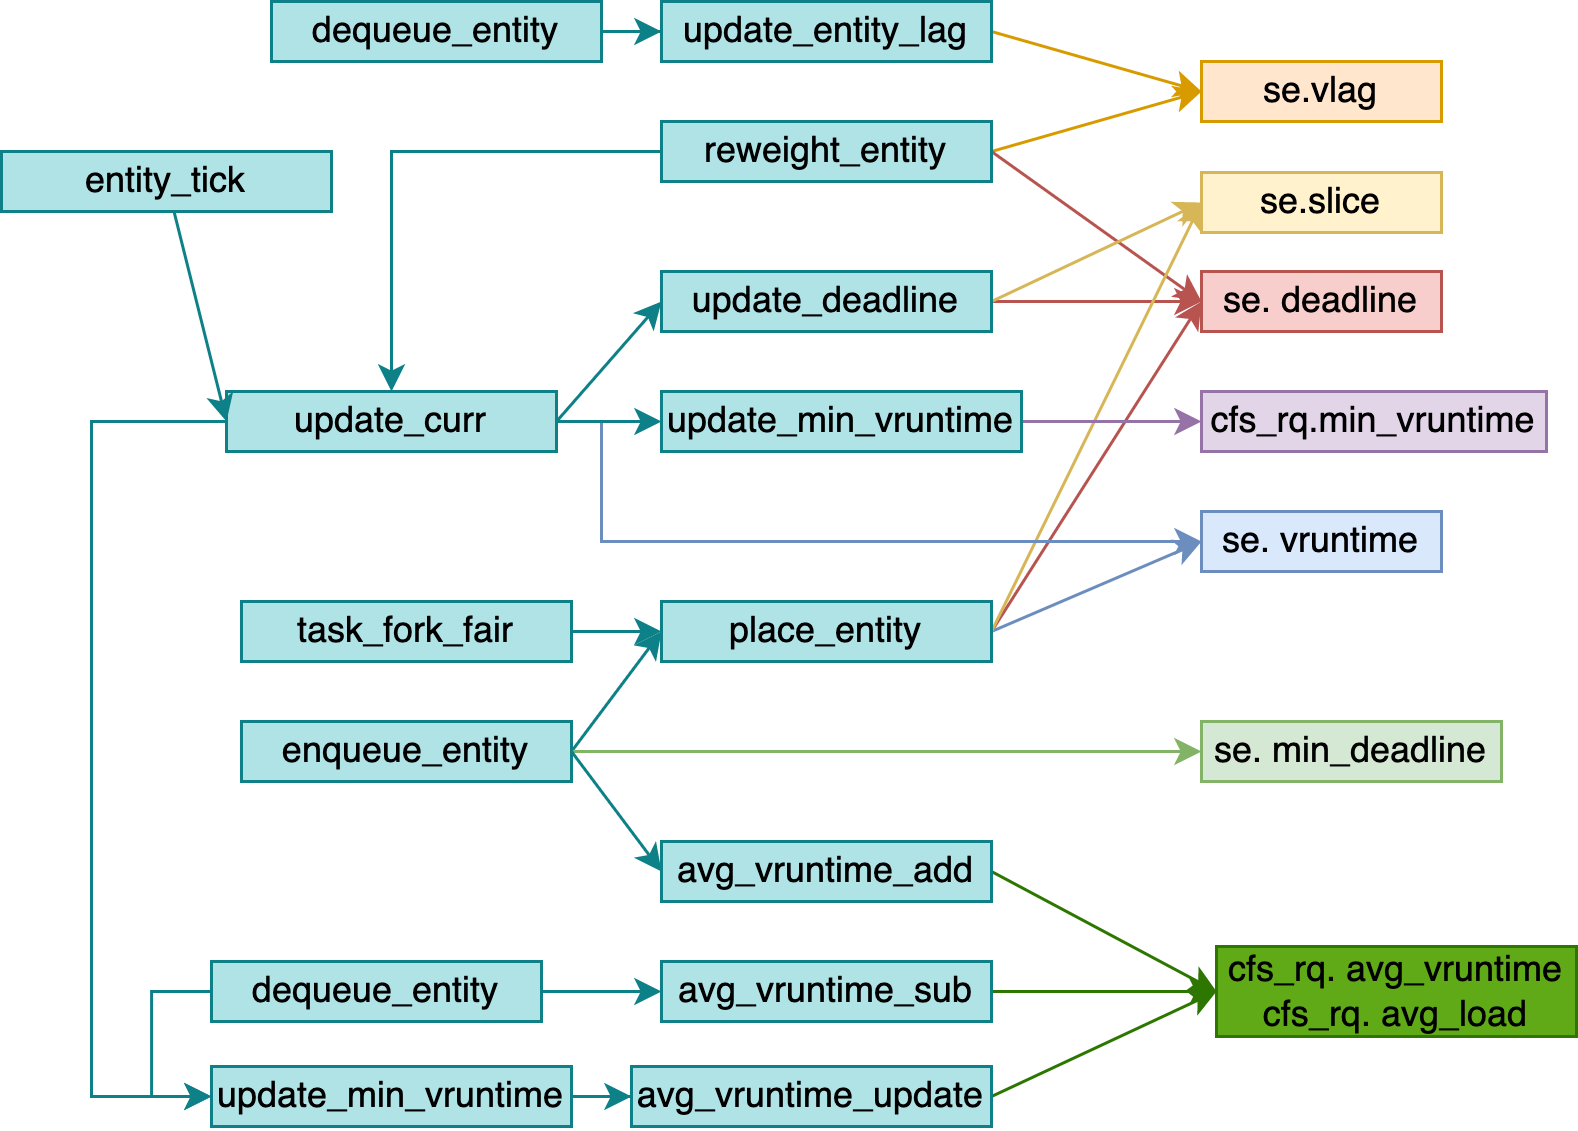
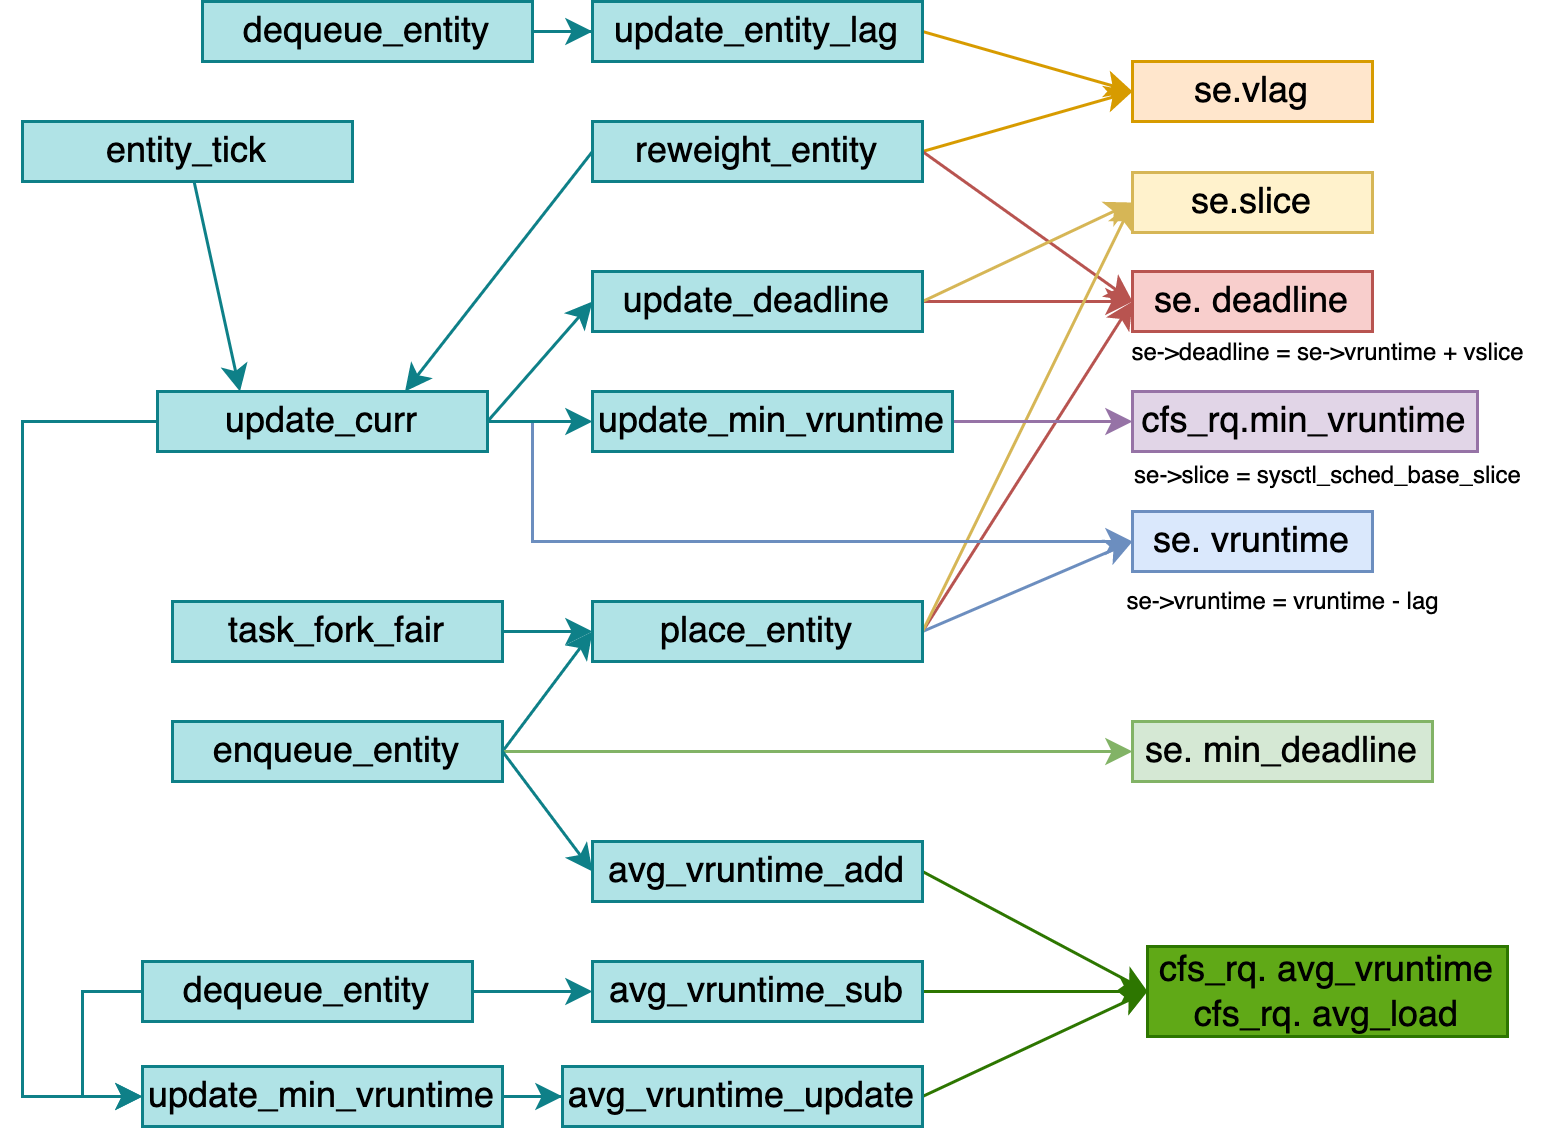
EEVDF

diff --git a/Linux/linux-kernel-proc.md b/Linux/linux-kernel-proc.md
@@ -811,6 +811,12 @@ export LD_LIBRARY_PATH=
     * [LWN Index - CFS scheduler](https://lwn.net/Kernel/Index/#Scheduler-Completely_fair_scheduler)
         * [An EEVDF CPU scheduler for Linux](https://lwn.net/Articles/925371/)
             * [[PATCH 00/15] sched: EEVDF and latency-nice and/or slice-attr](https://lore.kernel.org/all/20230531115839.089944915@infradead.org/#t)
+            * [[PATCH 01/15] sched/fair: Add cfs_rq::avg_vruntime](https://github.com/torvalds/linux/commit/af4cf40470c22efa3987200fd19478199e08e103)
+            * [[PATCH 03/15] sched/fair: Add lag based placement](https://github.com/torvalds/linux/commit/86bfbb7ce4f67a88df2639198169b685668e7349)
+            * [[PATCH 04/15] rbtree: Add rb_add_augmented_cached() helper](https://github.com/torvalds/linux/commit/99d4d26551b56f4e523dd04e4970b94aa796a64e)
+            * [[PATCH 05/15] sched/fair: Implement an EEVDF like policy](https://github.com/torvalds/linux/commit/147f3efaa24182a21706bca15eab2f3f4630b5fe)
+            * [[PATCH 07/15] sched/smp: Use lag to simplify cross-runqueue placement](https://github.com/torvalds/linux/commit/e8f331bcc270354a803c2127c486190d33eac441)
+            * [[PATCH 08/15] sched: Commit to EEVDF](https://github.com/torvalds/linux/commit/5e963f2bd4654a202a8a05aa3a86cb0300b10e6c)
             * ![](../Images/Kernel/proc-sched-cfs-eevdf.png)
     * [LWN Index - Core scheduling](https://lwn.net/Kernel/Index/#Scheduler-Core_scheduling)
     * [LWN Index - Deadline scheduling](https://lwn.net/Kernel/Index/#Scheduler-Deadline_scheduling)
@@ -2638,7 +2644,28 @@ enqueue_task_fair(struct rq *rq, struct task_struct *p, int flags) {
             /* If we're the current task, we must renormalise before calling update_curr(). */
             if (curr) {
                 place_entity(cfs_rq, se, flags) {
-                    u64 vslice, vruntime = avg_vruntime(cfs_rq);
+                    u64 vslice;
+                    u64 vruntime = avg_vruntime(cfs_rq) {
+                        struct sched_entity *curr = cfs_rq->curr;
+                        s64 avg = cfs_rq->avg_vruntime;
+                        long load = cfs_rq->avg_load;
+
+                        if (curr && curr->on_rq) {
+                            unsigned long weight = scale_load_down(curr->load.weight);
+
+                            avg += entity_key(cfs_rq, curr) * weight;
+                            load += weight;
+                        }
+
+                        if (load) {
+                            if (avg < 0) { /* sign flips effective floor / ceil */
+                                avg -= (load - 1);
+                            }
+                            avg = div_s64(avg, load);
+                        }
+
+                        return cfs_rq->min_vruntime + avg;
+                    }
                     s64 lag = 0;
 
                     se->slice = sysctl_sched_base_slice;
@@ -2651,9 +2678,9 @@ enqueue_task_fair(struct rq *rq, struct task_struct *p, int flags) {
                         lag = se->vlag;
 
                         load = cfs_rq->avg_load;
-                        if (curr && curr->on_rq)
+                        if (curr && curr->on_rq) {
                             load += scale_load_down(curr->load.weight);
-
+                        }
                         lag *= load + scale_load_down(se->load.weight);
                         if (WARN_ON_ONCE(!load))
                             load = 1;
@@ -2713,7 +2740,13 @@ enqueue_task_fair(struct rq *rq, struct task_struct *p, int flags) {
             update_stats_enqueue_fair(cfs_rq, se, flags);
             if (!curr) {
                 __enqueue_entity(cfs_rq, se) {
-                    avg_vruntime_add(cfs_rq, se);
+                    avg_vruntime_add(cfs_rq, se) {
+                        unsigned long weight = scale_load_down(se->load.weight);
+                        s64 key = entity_key(cfs_rq, se);
+
+                        cfs_rq->avg_vruntime += key * weight;
+                        cfs_rq->avg_load += weight;
+                    }
                     se->min_deadline = se->deadline;
 
                     RB_DECLARE_CALLBACKS(static, min_deadline_cb, struct sched_entity,
@@ -2819,22 +2852,26 @@ dequeue_task_fair(struct rq *rq, struct task_struct *p, int flags) {
 
             update_curr(cfs_rq);
             update_load_avg(cfs_rq, se, action);
-            se_update_runnable(se);
 
             update_stats_dequeue_fair(cfs_rq, se, flags);
-
             clear_buddies(cfs_rq, se);
+
+            update_entity_lag(cfs_rq, se) {
+                s64 lag, limit;
+
+                lag = avg_vruntime(cfs_rq) - se->vruntime;
+                limit = calc_delta_fair(max_t(u64, 2*se->slice, TICK_NSEC), se);
+                se->vlag = clamp(lag, -limit, limit);
+            }
 
             if (se != cfs_rq->curr) {
                 __dequeue_entity(cfs_rq, se) {
-                    rb_erase_cached(&se->run_node, &cfs_rq->tasks_timeline);
+                    rb_erase_augmented_cached(&se->run_node, &cfs_rq->tasks_timeline, &min_deadline_cb);
+                    avg_vruntime_sub(cfs_rq, se);
                 }
             }
             se->on_rq = 0;
             account_entity_dequeue(cfs_rq, se);
-
-            if (!(flags & DEQUEUE_SLEEP))
-                se->vruntime -= cfs_rq->min_vruntime;
 
             /* return excess runtime on last dequeue */
             return_cfs_rq_runtime(cfs_rq);
@@ -2922,9 +2959,7 @@ put_prev_task_fair(struct rq *rq, struct task_struct *prev)
 
             if (prev->on_rq) {
                 update_stats_wait_start_fair(cfs_rq, prev);
-                __enqueue_entity(cfs_rq, prev) {
-                    rb_add_cached(&se->run_node, &cfs_rq->tasks_timeline, __entity_less);
-                }
+                __enqueue_entity(cfs_rq, prev);
                 update_load_avg(cfs_rq, prev, 0);
             }
             cfs_rq->curr = NULL;
@@ -3128,6 +3163,9 @@ set_next_task_fair(struct rq *rq, struct task_struct *p, bool first)
                 update_stats_wait_end_fair(cfs_rq, se);
                 __dequeue_entity(cfs_rq, se);
                 update_load_avg(cfs_rq, se, UPDATE_TG);
+                /* HACK, stash a copy of deadline at the point of pick in vlag,
+                 * which isn't used until dequeue. */
+                se->vlag = se->deadline;
             }
 
             update_stats_curr_start(cfs_rq, se);
@@ -3205,8 +3243,11 @@ sched_vslice(struct cfs_rq *cfs_rq, struct sched_entity *se)
     }
     calc_delta_fair(slice, se) {
         if (unlikely(se->load.weight != NICE_0_LOAD)) {
-            delta = __calc_delta(delta, NICE_0_LOAD, &se->load)
-                --->
+            delta = __calc_delta(delta, NICE_0_LOAD, &se->load) {
+                /* delta_exec * weight / lw.weight
+                 *   OR
+                 * (delta_exec * (weight * lw->inv_weight)) >> WMULT_SHIFT */
+            }
         }
 
         return delta;
@@ -3228,8 +3269,8 @@ task_tick_fair(struct rq *rq, struct task_struct *curr, int queued) {
                 curr->exec_start = now;
                 curr->sum_exec_runtime += delta_exec;
                 schedstat_add(cfs_rq->exec_clock, delta_exec);
-
                 curr->vruntime += calc_delta_fair(delta_exec, curr);
+
                 update_deadline(cfs_rq, curr) {
                     if ((s64)(se->vruntime - se->deadline) < 0)
                         return;
@@ -3260,8 +3301,11 @@ task_tick_fair(struct rq *rq, struct task_struct *curr, int queued) {
                             curr = NULL;
                     }
 
-                    if (se && (!curr)) {
-                        vruntime = (!curr) ? se->vruntime : min_vruntime(vruntime, se->vruntime);
+                    if (se) {
+                        if (!curr)
+                            vruntime = se->vruntime;
+                        else
+                            vruntime = min_vruntime(vruntime, se->vruntime);
                     }
 
                     /* ensure we never gain time by being placed backwards. */
